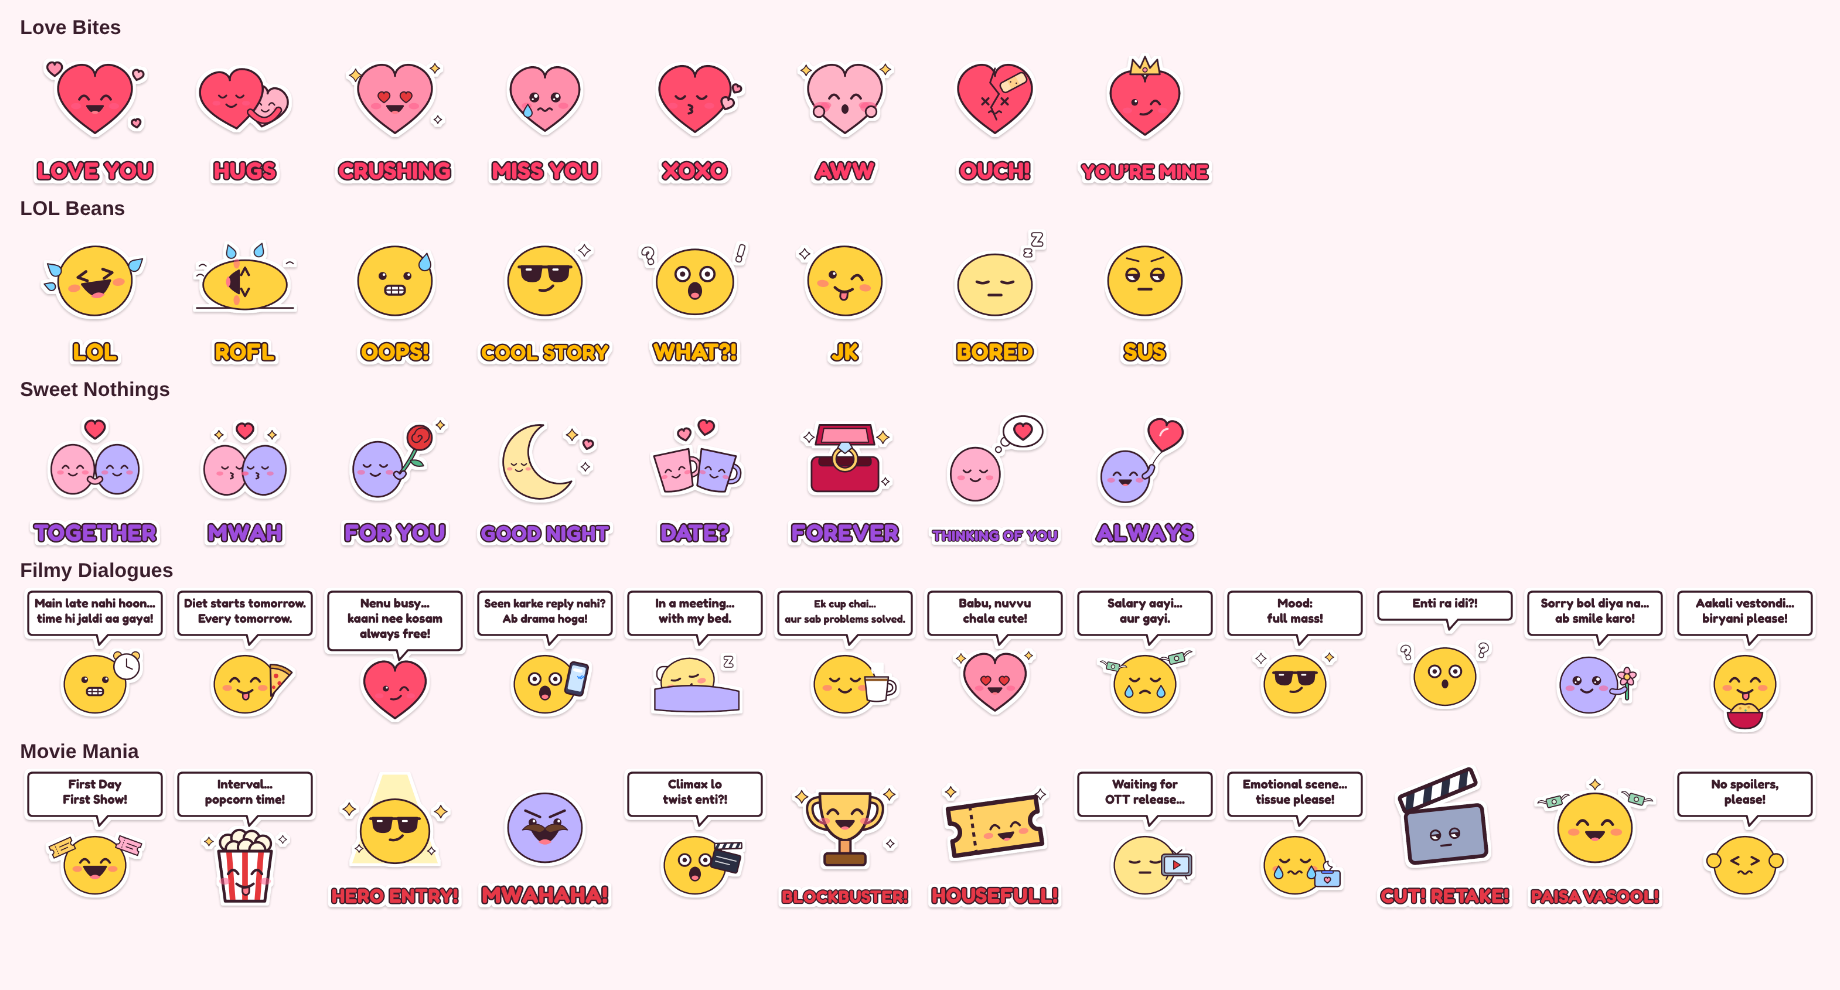
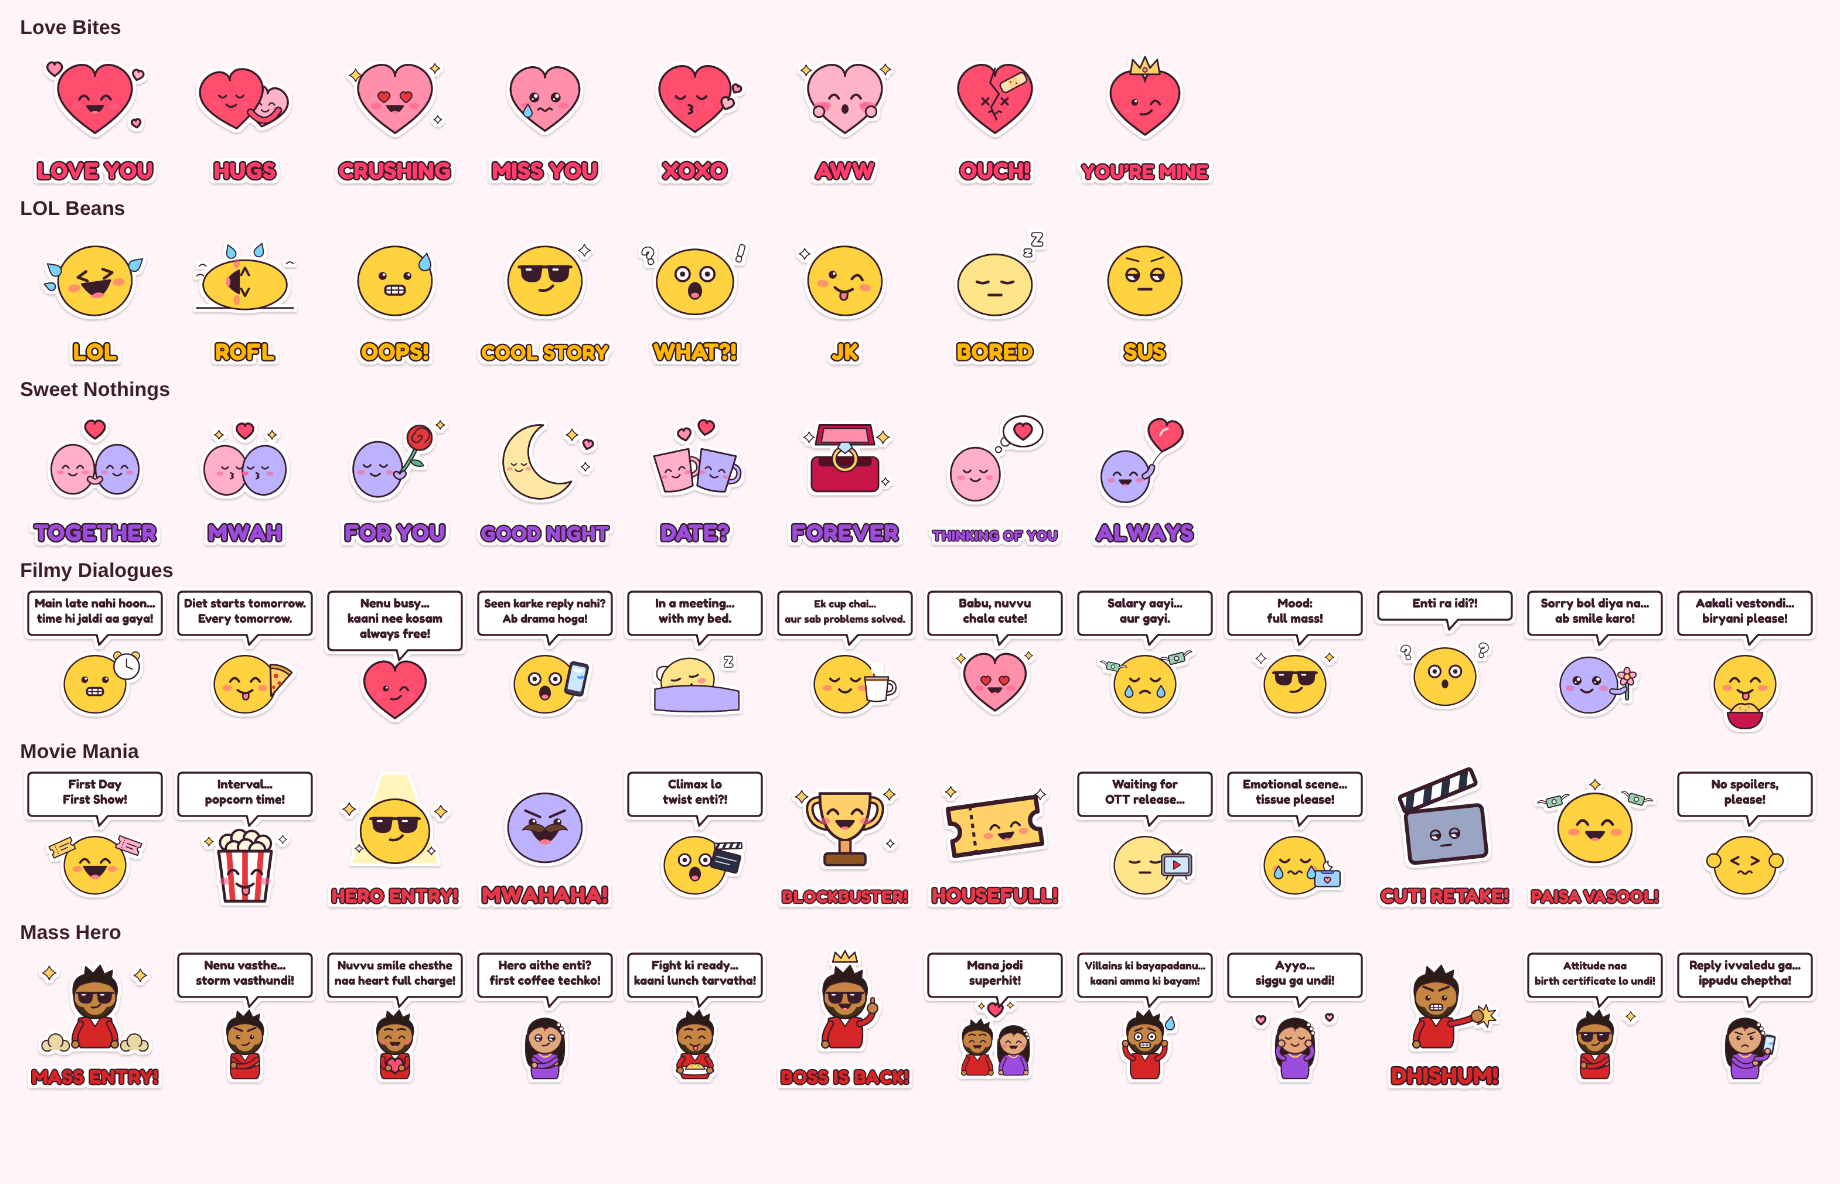
Add Mass Hero sticker pack
12 stickers with an original hero and heroine and original Telugu
mass and romcom lines (Mass Entry, storm vasthundi, coffee techko,
amma ki bayam, siggu ga undi, Dhishum, ...).

Claude-Session: https://claude.ai/code/session_01UfTuKxUfNCD4pKGLE2icCk

Changed region(s): [[0.0, 0.0, 0.9913, 0.9394]]

diff --git a/tools/sticker-gen/art.js b/tools/sticker-gen/art.js
@@ -659,4 +659,155 @@ const movies = {
   ],
 };
 
-module.exports = { packs: [love, comedy, romance, dialogues, movies], INK };
+// ---- original "Mass Hero" characters ----
+
+const SKIN = '#c68642', SKIN2 = '#e0a77a', HAIR = '#2b1d14', SHIRT = '#d62828', KURTI = '#9d4edd';
+
+// A puff of dust kicked up by a slow-motion entry.
+function dust(x, y) {
+  return `<g fill="#e9d8a6" ${stroke(5)}>
+    <circle cx="${x - 34}" cy="${y + 6}" r="22"/><circle cx="${x + 34}" cy="${y + 6}" r="22"/><circle cx="${x}" cy="${y - 12}" r="30"/>
+  </g><path d="M${x - 56} ${y + 10} q56 26 112 0" fill="#e9d8a6"/>`;
+}
+
+function hand(x, y, r = 16, fill = SKIN) {
+  return `<circle cx="${x}" cy="${y}" r="${r}" fill="${fill}" ${stroke(6)}/>`;
+}
+
+// Hero: spiky hair, short stubble, red shirt. Local coordinates, head centred on (0, 0).
+function hero(x, y, s, { eyes = 'dot', mouth = 'smirk', glasses = false, brows = 'calm', arms = 'down', blush = false } = {}) {
+  const armsSvg = {
+    down: `${limb('M-62 112 Q-92 160 -84 196', SHIRT)}${hand(-84, 200)}${limb('M62 112 Q92 160 84 196', SHIRT)}${hand(84, 200)}`,
+    punch: `${limb('M-62 112 Q-92 160 -84 196', SHIRT)}${hand(-84, 200)}${limb('M62 112 Q120 104 162 84', SHIRT)}
+      <path d="M214 30 l10 30 l30 -6 l-20 24 l22 20 l-30 0 l-6 30 l-16 -26 l-26 14 l6 -30 l-28 -12 l30 -8 l-6 -30 l24 18 Z" fill="#ffd166" ${stroke(5)}/>
+      ${hand(176, 80, 26)}`,
+    crossed: `${limb('M-62 116 Q-10 176 54 136', SHIRT)}${hand(58, 134)}${limb('M62 116 Q10 166 -54 146', SHIRT)}${hand(-58, 146)}`,
+    plate: `${limb('M-62 112 Q-96 150 -70 168', SHIRT)}${limb('M62 112 Q96 150 70 168', SHIRT)}
+      <ellipse cx="0" cy="172" rx="96" ry="24" fill="#fff" ${stroke(6)}/>
+      <path d="M-50 166 Q-30 130 0 140 Q30 128 52 166 Z" fill="#ffd166" ${stroke(5)}/>
+      <circle cx="-14" cy="150" r="5" fill="#e09f3e"/><circle cx="18" cy="148" r="5" fill="#52b788"/>
+      ${hand(-76, 172)}${hand(76, 172)}`,
+    heart: `${limb('M-62 112 Q-70 160 -30 160', SHIRT)}${limb('M62 112 Q70 160 30 160', SHIRT)}
+      ${heart(0, 150, 42, RED)}${hand(-34, 160)}${hand(34, 160)}`,
+    thumb: `${limb('M-62 112 Q-92 160 -84 196', SHIRT)}${hand(-84, 200)}${limb('M62 112 Q118 100 118 50', SHIRT)}
+      <rect x="110" y="0" width="16" height="34" rx="8" fill="${SKIN}" ${stroke(5)}/>${hand(118, 46, 22)}`,
+    scared: `${limb('M-62 112 Q-110 90 -100 40', SHIRT)}${hand(-100, 34)}${limb('M62 112 Q110 90 100 40', SHIRT)}${hand(100, 34)}`,
+  }[arms];
+  const browsSvg = {
+    calm: `<path d="M-52 -36 Q-34 -46 -14 -36 M52 -36 Q34 -46 14 -36" fill="none" ${stroke(9)}/>`,
+    angry: `<path d="M-54 -46 L-14 -30 M54 -46 L14 -30" ${stroke(10)}/>`,
+    worried: `<path d="M-52 -30 L-16 -44 M52 -30 L16 -44" ${stroke(9)}/>`,
+  }[brows];
+  return `<g transform="translate(${x} ${y}) scale(${s})">
+    <path d="M-70 90 Q-84 200 -60 214 H60 Q84 200 70 90 Q0 70 -70 90 Z" fill="${SHIRT}" ${stroke()}/>
+    <path d="M-26 84 L0 124 L26 84" fill="#fff" ${stroke(5)}/>
+    <circle cx="0" cy="0" r="90" fill="${SKIN}" ${stroke()}/>
+    <path d="M-86 16 Q-80 92 0 92 Q80 92 86 16 Q70 44 50 40 Q30 76 0 74 Q-30 76 -50 40 Q-70 44 -86 16 Z" fill="${HAIR}" opacity="0.85"/>
+    <path d="M-92 -6 Q-104 -84 -44 -98 L-40 -132 L-8 -104 L22 -138 L40 -100 L74 -116 L70 -84 Q104 -60 92 -6 Q82 -54 44 -60 Q0 -76 -44 -60 Q-82 -54 -92 -6 Z" fill="${HAIR}" ${stroke(6)}/>
+    ${face(0, 2, 1.25, { eyes: glasses ? 'none' : eyes, mouth, blush })}
+    ${glasses ? sunglasses(0, -4, 1.25) : browsSvg}
+    ${armsSvg}
+  </g>`;
+}
+
+// Heroine: long dark hair with a jasmine string, purple kurti, red bindi.
+function heroine(x, y, s, { eyes = 'happy', mouth = 'smile', arms = 'down', blush = true, brows = null } = {}) {
+  const armsSvg = {
+    down: `${limb('M-58 112 Q-86 160 -78 194', KURTI)}${hand(-78, 198, 15, SKIN2)}${limb('M58 112 Q86 160 78 194', KURTI)}${hand(78, 198, 15, SKIN2)}`,
+    crossed: `${limb('M-58 116 Q-10 172 50 136', KURTI)}${hand(54, 134, 15, SKIN2)}${limb('M58 116 Q10 162 -50 146', KURTI)}${hand(-54, 146, 15, SKIN2)}`,
+    cheeks: `${limb('M-58 112 Q-110 90 -74 40', KURTI)}${hand(-70, 34, 18, SKIN2)}${limb('M58 112 Q110 90 74 40', KURTI)}${hand(70, 34, 18, SKIN2)}`,
+    phone: `${limb('M-58 116 Q-10 172 50 136', KURTI)}${hand(54, 134, 15, SKIN2)}${limb('M58 112 Q120 120 118 70', KURTI)}
+      ${phone(122, 40, 0.8, 10)}${hand(116, 74, 15, SKIN2)}`,
+  }[arms];
+  return `<g transform="translate(${x} ${y}) scale(${s})">
+    <path d="M-96 -10 Q-110 120 -76 150 L76 150 Q110 120 96 -10 Z" fill="${HAIR}" ${stroke(6)}/>
+    <path d="M-64 92 Q-80 200 -58 214 H58 Q80 200 64 92 Q0 74 -64 92 Z" fill="${KURTI}" ${stroke()}/>
+    <path d="M-30 88 Q0 120 30 88" fill="none" stroke="#ffd166" stroke-width="7" stroke-linecap="round"/>
+    <circle cx="0" cy="0" r="86" fill="${SKIN2}" ${stroke()}/>
+    <path d="M-90 4 Q-96 -90 0 -96 Q96 -90 90 4 Q70 -50 20 -52 Q0 -30 -10 -52 Q-70 -50 -90 4 Z" fill="${HAIR}" ${stroke(6)}/>
+    ${[[70, -62], [84, -42], [92, -20]].map(([cx, cy]) => `<circle cx="${cx}" cy="${cy}" r="10" fill="#fff" ${stroke(4)}/>`).join('')}
+    <circle cx="0" cy="-34" r="6" fill="#e5383b"/>
+    ${face(0, 6, 1.2, { eyes, mouth, blush })}
+    ${brows === 'angry' ? `<path d="M-50 -24 L-14 -12 M50 -24 L14 -12" ${stroke(7)}/>` : ''}
+    ${armsSvg}
+  </g>`;
+}
+
+const HERO_AT = (opts, extra = '') => `${extra}${hero(256, 190, 0.95, opts)}`;
+const HEROINE_AT = (opts, extra = '') => `${extra}${heroine(256, 190, 0.95, opts)}`;
+
+// Original "mass" and romcom lines, mostly Telugu written in English letters.
+const massHero = {
+  identifier: 'mass_hero',
+  name: 'Mass Hero',
+  version: '1',
+  accent: '#d62828',
+  trayFrom: 0,
+  stickers: [
+    {
+      file: '01_mass_entry', text: 'MASS ENTRY!', emojis: ['😎', '🔥'],
+      alt: 'A hero in sunglasses makes a slow-motion entry with sparkles and dust',
+      art: () => HERO_AT({ glasses: true, mouth: 'smirk' }, `${sparkle(70, 90, 28)}${sparkle(440, 100, 26)}
+        ${dust(96, 380)}${dust(416, 380)}`),
+    },
+    {
+      file: '02_storm', bubble: ['Nenu vasthe...', 'storm vasthundi!'], emojis: ['🌪', '😤'],
+      alt: 'A confident hero says when I arrive, a storm arrives',
+      art: () => HERO_AT({ eyes: 'dot', brows: 'angry', mouth: 'smirk', arms: 'crossed' }),
+    },
+    {
+      file: '03_full_charge', bubble: ['Nuvvu smile chesthe', 'naa heart full charge!'], emojis: ['🥰', '🔋'],
+      alt: 'A blushing hero holds a heart and says your smile fully charges my heart',
+      art: () => HERO_AT({ eyes: 'happy', mouth: 'grin', arms: 'heart', blush: true }),
+    },
+    {
+      file: '04_coffee', bubble: ['Hero aithe enti?', 'first coffee techko!'], emojis: ['☕', '😏'],
+      alt: 'The heroine folds her arms and says so what if you are a hero, bring coffee first',
+      art: () => HEROINE_AT({ eyes: 'side', mouth: 'smirk', arms: 'crossed', blush: false }),
+    },
+    {
+      file: '05_lunch', bubble: ['Fight ki ready...', 'kaani lunch tarvatha!'], emojis: ['🍛', '😋'],
+      alt: 'The hero holds a plate of food and says ready to fight, but after lunch',
+      art: () => HERO_AT({ eyes: 'happy', mouth: 'tongue', arms: 'plate' }),
+    },
+    {
+      file: '06_boss', text: 'BOSS IS BACK!', emojis: ['👑', '😎'],
+      alt: 'The hero in sunglasses gives a thumbs up, the boss is back',
+      art: () => HERO_AT({ glasses: true, mouth: 'grin', arms: 'thumb' },
+        `<path d="M206 46 L216 6 L240 30 L256 0 L272 30 L296 6 L306 46 Z" fill="#ffd166" ${stroke(6)}/>`),
+    },
+    {
+      file: '07_jodi', bubble: ['Mana jodi', 'superhit!'], emojis: ['💑', '❤'],
+      alt: 'The hero and heroine stand together under a heart',
+      art: () => `${heroine(346, 210, 0.78, { eyes: 'happy', mouth: 'grin' })}${hero(170, 210, 0.78, { eyes: 'happy', mouth: 'grin', blush: true })}
+        ${heart(258, 60, 36, RED)}${sparkle(190, 40, 16)}${sparkle(330, 36, 16)}`,
+    },
+    {
+      file: '08_amma', bubble: ['Villains ki bayapadanu...', 'kaani amma ki bayam!'], emojis: ['😰', '🙏'],
+      alt: 'The hero raises his hands in fear and says not scared of villains but scared of mom',
+      art: () => HERO_AT({ eyes: 'shock', brows: 'worried', mouth: 'grimace', arms: 'scared' }, drop(380, 120, 1.4, '#7ad3ff', 10)),
+    },
+    {
+      file: '09_siggu', bubble: ['Ayyo...', 'siggu ga undi!'], emojis: ['☺', '🙈'],
+      alt: 'The blushing heroine holds her cheeks and says I feel shy',
+      art: () => HEROINE_AT({ eyes: 'closed', mouth: 'smile', arms: 'cheeks' }, `${heart(90, 110, 22, PINK)}${heart(424, 96, 18, BLUSH)}`),
+    },
+    {
+      file: '10_dhishum', text: 'DHISHUM!', emojis: ['👊', '💥'],
+      alt: 'The hero throws a punch with a big impact star',
+      art: () => `${hero(220, 190, 0.95, { eyes: 'dot', brows: 'angry', mouth: 'grimace', arms: 'punch' })}`,
+    },
+    {
+      file: '11_attitude', bubble: ['Attitude naa', 'birth certificate lo undi!'], emojis: ['😎', '💯'],
+      alt: 'The hero in sunglasses says attitude is written on my birth certificate',
+      art: () => HERO_AT({ glasses: true, mouth: 'smirk', arms: 'crossed' }, sparkle(430, 90, 24)),
+    },
+    {
+      file: '12_reply', bubble: ['Reply ivvaledu ga...', 'ippudu cheptha!'], emojis: ['😤', '📱'],
+      alt: 'The angry heroine holds a phone and says you did not reply, now you will see',
+      art: () => HEROINE_AT({ eyes: 'dot', mouth: 'frown', arms: 'phone', blush: false, brows: 'angry' }),
+    },
+  ],
+};
+
+module.exports = { packs: [love, comedy, romance, dialogues, movies, massHero], INK };

diff --git a/README.md b/README.md
@@ -1,8 +1,8 @@
 # Love Comedy Romance Stickers
 
-An Android app with five original sticker packs for WhatsApp and WhatsApp Business, plus a sticker maker for your own photos.
+An Android app with six original sticker packs for WhatsApp and WhatsApp Business, plus a sticker maker for your own photos.
 
-![All 48 stickers](docs/preview.png)
+![All 60 stickers](docs/preview.png)
 
 | Pack | Theme | Stickers |
 | --- | --- | --- |
@@ -10,6 +10,7 @@ An Android app with five original sticker packs for WhatsApp and WhatsApp Busine
 | **LOL Beans** | Comedy | LOL, ROFL, Oops!, Cool Story, What?!, JK, Bored, Sus |
 | **Sweet Nothings** | Romance | Together, Mwah, For You, Good Night, Date?, Forever, Thinking of You, Always |
 | **Filmy Dialogues** | Comedy lines in English, Hinglish and Telugu | Main late nahi hoon…, Diet starts tomorrow, Nenu busy…, Seen karke reply nahi?, Enti ra idi?!, Aakali vestondi… and 6 more |
+| **Mass Hero** | Original mass hero and heroine, Telugu romcom lines | Mass Entry!, Nenu vasthe… storm vasthundi!, Hero aithe enti? first coffee techko!, Villains ki bayapadanu… kaani amma ki bayam!, Dhishum! and 7 more |
 | **Movie Mania** | Cinema-going jokes | First Day First Show!, Interval… popcorn time!, Hero Entry!, Mwahaha!, Climax twist, Blockbuster!, Housefull!, Paisa Vasool! and 4 more |
 
 All artwork and dialogue lines are original. None of them use film stills, actors' likenesses or quotes from real films, so the app is safe to publish.
